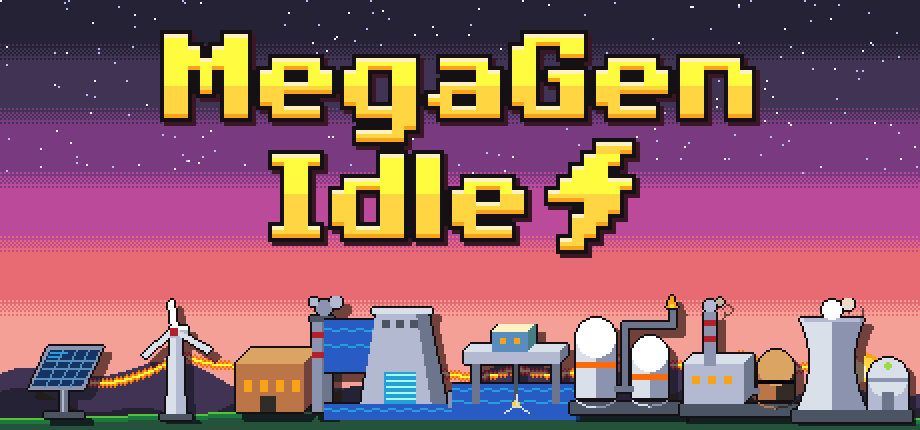
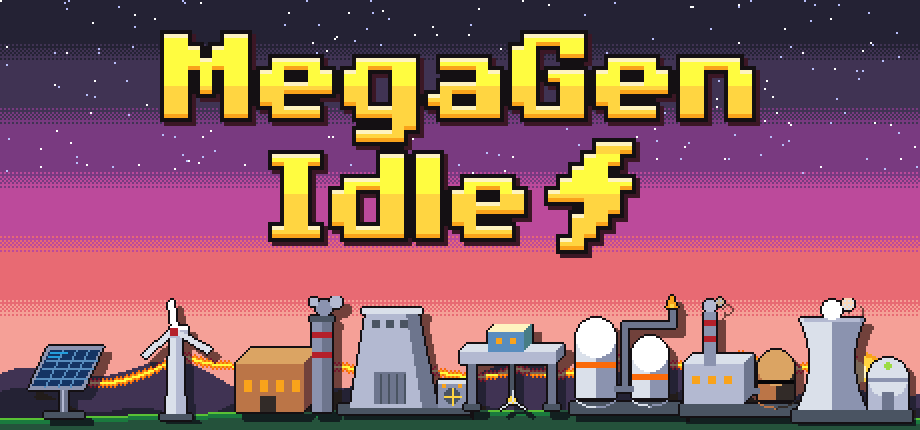
Machine pictures without drawn-in water: Hydro Dam, Tidal Station, Oil Rig, Deuterium Extractor; brand images regenerated (item 2.01)
Claude-Session: https://claude.ai/code/session_01Az9AuRof6qeneW3fkCtckj

Changed region(s): [[0.3348, 0.6953, 0.6391, 0.9977]]

diff --git a/src/assets/assets.test.ts b/src/assets/assets.test.ts
@@ -106,3 +106,26 @@ describe('logo sprites (1.50)', () => {
     }
   });
 });
+
+describe('machines without drawn-in water (2.01)', () => {
+  const WATER = new Set(['285cc4', '249fde']); // C.blue, C.sky
+  const files = [
+    'generators/hydro_dam.png', 'generators/hydro_dam_2.png', 'generators/tidal_station.png', 'generators/tidal_station_2.png',
+    'producers/oil_rig.png', 'producers/oil_rig_2.png', 'producers/deuterium_extractor.png',
+  ];
+
+  it('no water-colored band across the picture: at most a few water pixels in any row', () => {
+    for (const file of files) {
+      const png = PNG.sync.read(readFileSync(join(assetsDir, 'sprites', file)));
+      for (let y = 0; y < png.height; y++) {
+        let water = 0;
+        for (let x = 0; x < png.width; x++) {
+          const i = (y * png.width + x) * 4;
+          const hex = [0, 1, 2].map((k) => png.data[i + k].toString(16).padStart(2, '0')).join('');
+          if (png.data[i + 3] > 0 && WATER.has(hex)) water++;
+        }
+        expect(water, `${file} row ${y}`).toBeLessThanOrEqual(6);
+      }
+    }
+  });
+});

diff --git a/BACKLOG.md b/BACKLOG.md
@@ -29,7 +29,7 @@ Deployment and documentation come early so playtesting only needs a browser. Res
 ~~On hold (owner, 2026-10-10, after playtest 31): do not develop new backlog items until the owner says so.~~ Work in this order (Claude's placement after playtest 31, following the dates in `docs/RELEASE_DECISIONS.md`; the owner can move them):
 
 0. 2.06 Fix: "Player level up" is unchecked when notifications are first turned on (owner report, playtest 31; small; Done)
-0. 2.01 Fix: water drawn into the Hydro Dam, Tidal Station, Oil Rig and Deuterium Extractor pictures (owner report, playtest 31)
+0. 2.01 Fix: water drawn into the Hydro Dam, Tidal Station, Oil Rig and Deuterium Extractor pictures (owner report, playtest 31; Done)
 0. 2.02 Flying things cast their shadow far below them (owner report, playtest 31)
 0. 2.03 Shadows a little lighter (owner request, playtest 31)
 0. 2.05 The website on Cloudflare Pages: landing, play, press, privacy, terms, support (playbook W-05; reworks 1.94) → CHECKPOINT 32 (5 items: 2.06, 2.01, 2.02, 2.03, 2.05)
@@ -1462,7 +1462,8 @@ Electron (Steam) and Capacitor (Android, iOS) packaging moved into scope with th
 - Level-ups still count toward `MAX_PER_HOUR` and are merged into one summary with the others, so turning this on cannot flood the player.
 **Acceptance:** tests: a new save has every type checked; turning notifications on shows all five checked; an old save with notifications off migrates to level on, and one with them on keeps its level choice; the build and all tests pass.
 
-### 2.01 — Fix: water drawn into the Hydro Dam, Tidal Station, Oil Rig and Deuterium Extractor pictures — CODE — Not started
+### 2.01 — Fix: water drawn into the Hydro Dam, Tidal Station, Oil Rig and Deuterium Extractor pictures — CODE — Done
+**Done note:** the four machines stand on a foundation or on pilings; the dam's second frame turns a turbine wheel in the powerhouse instead of moving the spillway water. No other machine sprite had drawn water (the remaining blue is icons, the pond decoration and the water tiles themselves). On the map the dams sit on river tiles and the tidal stations on the coast, and they read well without an extra water edge, so none was added.
 **Goal:** owner report, playtest 31 (screenshots of the key scene and the map): some machine pictures have water drawn in, which looks silly where they are not on water: on the generator cards, in the key scene on the landing page and in the store images, and on dry map tiles (the Oil Rig stands on the oil field). Water must show only where the machine really stands on water on the map. Fix it everywhere.
 **Details:**
 - In `scripts/generate-generic-assets.mjs`, draw these without water: `hydroDam` (the reservoir and the river, both frames), `tidalStation` (the sea, both frames), `oilRig` (the sea, both frames) and `deuteriumExtractor` (the shore and the sea). Keep the structure and its animation (the second frame moves the turbine or the pump, not water); the base sits on its own small foundation or pilings. Check for other sprites with drawn water (`C.blue` or `C.sky` bands, `waves(...)`) and fix them the same way, except tiles and map details that are water themselves (sea, river, lake, coast, waves).
